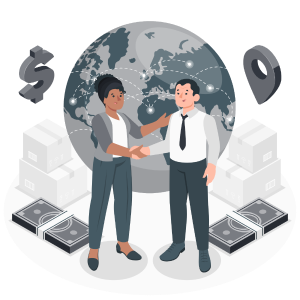
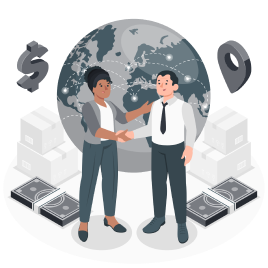
implement home feature

diff --git a/lib/feature/home/home_screen.dart b/lib/feature/home/home_screen.dart
@@ -1,3 +1,12 @@
+import 'package:dai_sales/feature/widget/dai_card.dart';
+import 'package:dai_sales/feature/widget/dai_text.dart';
+import 'package:dai_sales/utils/constant/color.dart';
+import 'package:dai_sales/utils/constant/path.dart';
+import 'package:dai_sales/utils/constant/route.dart';
+import 'package:dai_sales/utils/constant/text.dart';
+import 'package:dai_sales/utils/constant/unit.dart';
+import 'package:dai_sales/utils/enum/finite_text_hierarchy.dart';
+import 'package:dai_sales/utils/extention/white_space.dart';
 import 'package:flutter/material.dart';
 
 class HomeScreen extends StatefulWidget {
@@ -10,6 +19,76 @@ class HomeScreen extends StatefulWidget {
 class _HomeScreenState extends State<HomeScreen> {
   @override
   Widget build(BuildContext context) {
-    return const Scaffold();
+    return Scaffold(
+      backgroundColor: white,
+      appBar: AppBar(
+        title: const DAIText(
+          content: home,
+          textHierarchy: TextHierarchy.body,
+          fontWeight: FontWeight.bold,
+          color: black,
+          width: null,
+          textAlign: null,
+        ),
+        centerTitle: true,
+        backgroundColor: secondary300,
+        actions: <Widget>[
+          IconButton(
+            visualDensity: const VisualDensity(
+              horizontal: 2.0,
+              vertical: 2.0,
+            ),
+            onPressed: () => Navigator.pushNamedAndRemoveUntil(
+                context, homeRoute, (route) => false),
+            icon: const Icon(Icons.home),
+            tooltip: toolTipHome,
+          ),
+        ],
+      ),
+      body: SingleChildScrollView(
+        padding: const EdgeInsets.only(
+          left: screenPaddingLeft,
+          right: screenPaddingRight,
+        ),
+        child: Column(
+          mainAxisAlignment: MainAxisAlignment.start,
+          crossAxisAlignment: CrossAxisAlignment.center,
+          children: <Widget>[
+            screenPaddingTop.vspace,
+            const DAIText(
+              content: homeTitle,
+              textHierarchy: TextHierarchy.title,
+              fontWeight: FontWeight.bold,
+              color: primary500,
+              width: double.infinity,
+              textAlign: TextAlign.center,
+            ),
+            space12.vspace,
+            Row(
+              mainAxisAlignment: MainAxisAlignment.spaceEvenly,
+              crossAxisAlignment: CrossAxisAlignment.center,
+              children: <Widget>[
+                DAICard(
+                  imageAssetPath: targetImagePath,
+                  captionContent: homeCaptionTarget,
+                  buttonContent: homeButtonTarget,
+                  onPressed: () {},
+                ),
+                DAICard(
+                  imageAssetPath: reportImagePath,
+                  captionContent: homeCaptionReport,
+                  buttonContent: homeButtonReport,
+                  onPressed: () => Navigator.pushNamed(
+                    context,
+                    uploadFileRoute,
+                  ),
+                ),
+              ],
+            ),
+            screenPaddingBottom.vspace,
+          ],
+        ),
+      ),
+    );
   }
 }

diff --git a/lib/feature/widget/dai_heading_section.dart b/lib/feature/widget/dai_heading_section.dart
@@ -1,14 +1,13 @@
-import 'package:dai_sales/feature/widget/button/dai_navigation_button.dart';
-import 'package:dai_sales/utils/constant/route.dart';
 import 'package:dai_sales/utils/constant/unit.dart';
-import 'package:dai_sales/utils/extention/white_space.dart';
 import 'package:flutter/material.dart';
 
 class DAIHeadingSection extends StatefulWidget {
+  final bool isHome;
   final List<Widget> children;
 
   const DAIHeadingSection({
     super.key,
+    required this.isHome,
     required this.children,
   });
 
@@ -22,39 +21,35 @@ class _DAIHeadingSectionState extends State<DAIHeadingSection> {
     return Container(
       padding: const EdgeInsets.all(headingPadding),
       width: double.infinity,
-      child: SizedBox(
-        width: double.infinity,
-        child: Row(
-          mainAxisAlignment: MainAxisAlignment.start,
-          crossAxisAlignment: CrossAxisAlignment.center,
-          children: <Widget>[
-            DAINavigationButton(
-              forTable: false,
-              forClose: false,
-              icon: Icons.arrow_back,
-              onPressed: () => Navigator.pop(context),
+      height: 104,
+      child: Row(
+        mainAxisAlignment: MainAxisAlignment.spaceBetween,
+        crossAxisAlignment: CrossAxisAlignment.center,
+        children: <Widget>[
+          // DAINavigationButton(
+          //   forTable: false,
+          //   forClose: false,
+          //   icon: Icons.arrow_back,
+          //   onPressed: () => Navigator.pop(context),
+          // ),
+          // 64.0.hspace,
+          SizedBox(
+            width: 500,
+            child: Row(
+              children: widget.children,
             ),
-            64.0.hspace,
-            Expanded(
-              child: SizedBox(
-                width: double.infinity,
-                child: Row(
-                  children: widget.children,
-                ),
-              ),
-            ),
-            64.0.hspace,
-            DAINavigationButton(
-              forTable: false,
-              forClose: true,
-              icon: Icons.close,
-              onPressed: () => Navigator.pushNamed(
-                context,
-                homeRoute,
-              ),
-            ),
-          ],
-        ),
+          ),
+          // 64.0.hspace,
+          // DAINavigationButton(
+          //   forTable: false,
+          //   forClose: true,
+          //   icon: Icons.close,
+          //   onPressed: () => Navigator.pushNamed(
+          //     context,
+          //     homeRoute,
+          //   ),
+          // ),
+        ],
       ),
     );
   }

diff --git a/lib/feature/widget/dai_card.dart b/lib/feature/widget/dai_card.dart
@@ -7,7 +7,6 @@ import 'package:dai_sales/utils/extention/white_space.dart';
 import 'package:flutter/material.dart';
 
 class DAICard extends StatefulWidget {
-  final bool forBigCard;
   final String imageAssetPath;
   final String captionContent;
   final String buttonContent;
@@ -15,7 +14,6 @@ class DAICard extends StatefulWidget {
 
   const DAICard({
     super.key,
-    required this.forBigCard,
     required this.imageAssetPath,
     required this.captionContent,
     required this.buttonContent,
@@ -30,9 +28,8 @@ class _DAICardState extends State<DAICard> {
   @override
   Widget build(BuildContext context) {
     return Container(
-      color: bg,
       padding: const EdgeInsets.all(cardPadding),
-      width: widget.forBigCard == true ? cardBigWidth : cardSmallWidth,
+      width: cardWidth,
       decoration: BoxDecoration(
         color: bg,
         borderRadius: BorderRadius.circular(border40),
@@ -44,12 +41,9 @@ class _DAICardState extends State<DAICard> {
           crossAxisAlignment: CrossAxisAlignment.center,
           children: <Widget>[
             Container(
-              color: white,
               padding: const EdgeInsets.all(cardPadding),
               width: double.infinity,
-              height: widget.forBigCard == true
-                  ? cardImageBigHeight
-                  : cardImageSmallHeight,
+              height: cardImageHeight,
               decoration: BoxDecoration(
                 color: white,
                 borderRadius: BorderRadius.circular(border20),
@@ -60,18 +54,19 @@ class _DAICardState extends State<DAICard> {
                 height: double.infinity,
               ),
             ),
-            24.0.hspace,
+            20.0.vspace,
             DAIText(
               width: double.infinity,
+              textAlign: TextAlign.start,
               content: widget.captionContent,
               textHierarchy: TextHierarchy.caption,
               fontWeight: FontWeight.normal,
               color: primary300,
             ),
-            24.0.hspace,
+            20.0.vspace,
             DAIButton(
               primary: true,
-              width: widget.forBigCard == true ? buttonWideWidth : buttonWidth,
+              width: buttonWidth,
               content: widget.buttonContent,
               onPressed: widget.onPressed,
             ),

diff --git a/lib/utils/constant/unit.dart b/lib/utils/constant/unit.dart
@@ -7,9 +7,8 @@ const double space16 = 16;
 const double space24 = 24;
 const double space48 = 48;
 const double space64 = 64;
-const double buttonWidth = 500;
-const double buttonHeight = 70;
-const double buttonWideWidth = 300;
+const double buttonWidth = 300;
+const double buttonHeight = 60;
 const double elevation = 0;
 const double borderWidth = 2;
 const double textSizeTitle = 48;
@@ -19,12 +18,10 @@ const double textSizeTable = 14;
 const double iconSize = 24;
 const double iconSizeForTable = 14;
 const double cardPadding = 20;
-const double cardImageBigHeight = 500;
-const double cardImageSmallHeight = 300;
+const double cardImageHeight = 300;
 const double chipPaddingHorizontal = 16;
 const double chipPaddingVertical = 12;
-const double cardBigWidth = 540;
-const double cardSmallWidth = 372;
+const double cardWidth = 340;
 const double formatInfoSectionWidth = 500;
 const double formatInfoSectionHeight = 500;
 const double snackbarPaddingVertical = 12;
@@ -33,3 +30,8 @@ const double snackbarWidth = 500;
 const int snackbarDuration = 2;
 const double snackbarIconSize = 50;
 const double headingPadding = 24;
+const double screenPaddingLeft = 48;
+const double screenPaddingRight = 48;
+const double screenPaddingTop = 14;
+const double screenPaddingBottom = 14;
+const double breadcrumbButtonHeight = 53;

diff --git a/lib/utils/constant/text.dart b/lib/utils/constant/text.dart
@@ -7,7 +7,7 @@ const String reportTitle = "What Type Of Report Do You Want To Know ?";
 const String homeCaptionTarget =
     "Click the button below if you want to manage the salesman target per month";
 const String homeCaptionReport =
-    "Click the button below if you want to generate some reports";
+    "Click the button below if you want to generate some reports (profit, stock, etc)";
 const String homeButtonTarget = "Manage Targets";
 const String homeButtonReport = "Generate Reports";
 const String uploadFileBodyTop =
@@ -48,3 +48,7 @@ const String qtyKirim = "QtyKirim";
 const String nilaiNetto = "NilaiNetto";
 const String category = "Category";
 const String remark = "Remark";
+const String breadcrumbHome = "Home";
+const String breadcrumbUploadFile = "Upload File";
+const String breadcrumbReport = "Report";
+const String toolTipHome = "Back To Home";

diff --git a/lib/feature/widget/button/dai_text_button.dart b/lib/feature/widget/button/dai_text_button.dart
@@ -6,11 +6,15 @@ import 'package:flutter/material.dart';
 
 class DAITextButton extends StatefulWidget {
   final String content;
+  final double width;
+  final TextAlign? textAlign;
   final void Function()? onPressed;
 
   const DAITextButton({
     super.key,
     required this.content,
+    required this.width,
+    required this.textAlign,
     required this.onPressed,
   });
 
@@ -62,7 +66,8 @@ class _DAITextButtonState extends State<DAITextButton> {
         ),
       ),
       child: DAIText(
-        width: null,
+        width: widget.width,
+        textAlign: widget.textAlign,
         content: widget.content,
         textHierarchy: TextHierarchy.body,
         fontWeight: FontWeight.bold,

diff --git a/lib/feature/widget/dai_text.dart b/lib/feature/widget/dai_text.dart
@@ -8,6 +8,7 @@ class DAIText extends StatefulWidget {
   final FontWeight? fontWeight;
   final Color? color;
   final double? width;
+  final TextAlign? textAlign;
 
   const DAIText({
     super.key,
@@ -16,6 +17,7 @@ class DAIText extends StatefulWidget {
     required this.fontWeight,
     required this.color,
     required this.width,
+    required this.textAlign,
   });
 
   @override
@@ -29,6 +31,7 @@ class _DAITextState extends State<DAIText> {
       width: widget.width,
       child: Text(
         widget.content,
+        textAlign: widget.textAlign,
         style: TextStyle(
           fontSize: widget.textHierarchy == TextHierarchy.table
               ? textSizeTable

diff --git a/lib/feature/widget/dai_format_info_section.dart b/lib/feature/widget/dai_format_info_section.dart
@@ -49,6 +49,7 @@ class _FormatInfoSectionState extends State<FormatInfoSection> {
               fontWeight: FontWeight.normal,
               color: black,
               width: double.infinity,
+              textAlign: TextAlign.start,
             ),
             20.0.vspace,
             Expanded(
@@ -77,6 +78,7 @@ class _FormatInfoSectionState extends State<FormatInfoSection> {
               fontWeight: FontWeight.normal,
               color: black,
               width: double.infinity,
+              textAlign: TextAlign.start,
             ),
           ],
         ),

diff --git a/lib/feature/widget/button/dai_breadcrumb_button.dart b/lib/feature/widget/button/dai_breadcrumb_button.dart
@@ -84,9 +84,13 @@ class _DAIBreadcrumbButtonState extends State<DAIBreadcrumbButton> {
             borderRadius: BorderRadius.circular(border16),
           ),
         ),
+        fixedSize: const MaterialStatePropertyAll<Size>(
+          Size(double.nan, breadcrumbButtonHeight),
+        ),
       ),
       child: DAIText(
         width: null,
+        textAlign: TextAlign.center,
         content: widget.content,
         textHierarchy: TextHierarchy.body,
         fontWeight: FontWeight.bold,

diff --git a/lib/utils/constant/path.dart b/lib/utils/constant/path.dart
@@ -1,1 +1,5 @@
-const String targetImagePath = 'assets/target_500.png';
+const String targetImagePath = 'assets/target_300.png';
+const String reportImagePath = 'assets/report_300.png';
+const String profitImagePath = 'assets/profit_300.png';
+const String salesmanImagePath = 'assets/salesman_300.png';
+const String stockImagePath = 'assets/stock_300.png';

diff --git a/lib/feature/widget/button/dai_button.dart b/lib/feature/widget/button/dai_button.dart
@@ -122,7 +122,8 @@ class _DAIButtonState extends State<DAIButton> {
         ),
       ),
       child: DAIText(
-        width: null,
+        width: double.infinity,
+        textAlign: TextAlign.center,
         content: widget.content,
         textHierarchy: TextHierarchy.body,
         fontWeight: FontWeight.bold,

diff --git a/lib/feature/widget/dai_column_chip.dart b/lib/feature/widget/dai_column_chip.dart
@@ -50,6 +50,7 @@ class _DAIChipState extends State<DAIColumnChip> {
                     ? green
                     : red,
             width: null,
+            textAlign: TextAlign.center,
           ),
           widget.finiteChipStatus == FiniteChipStatus.info
               ? 0.0.hspace
